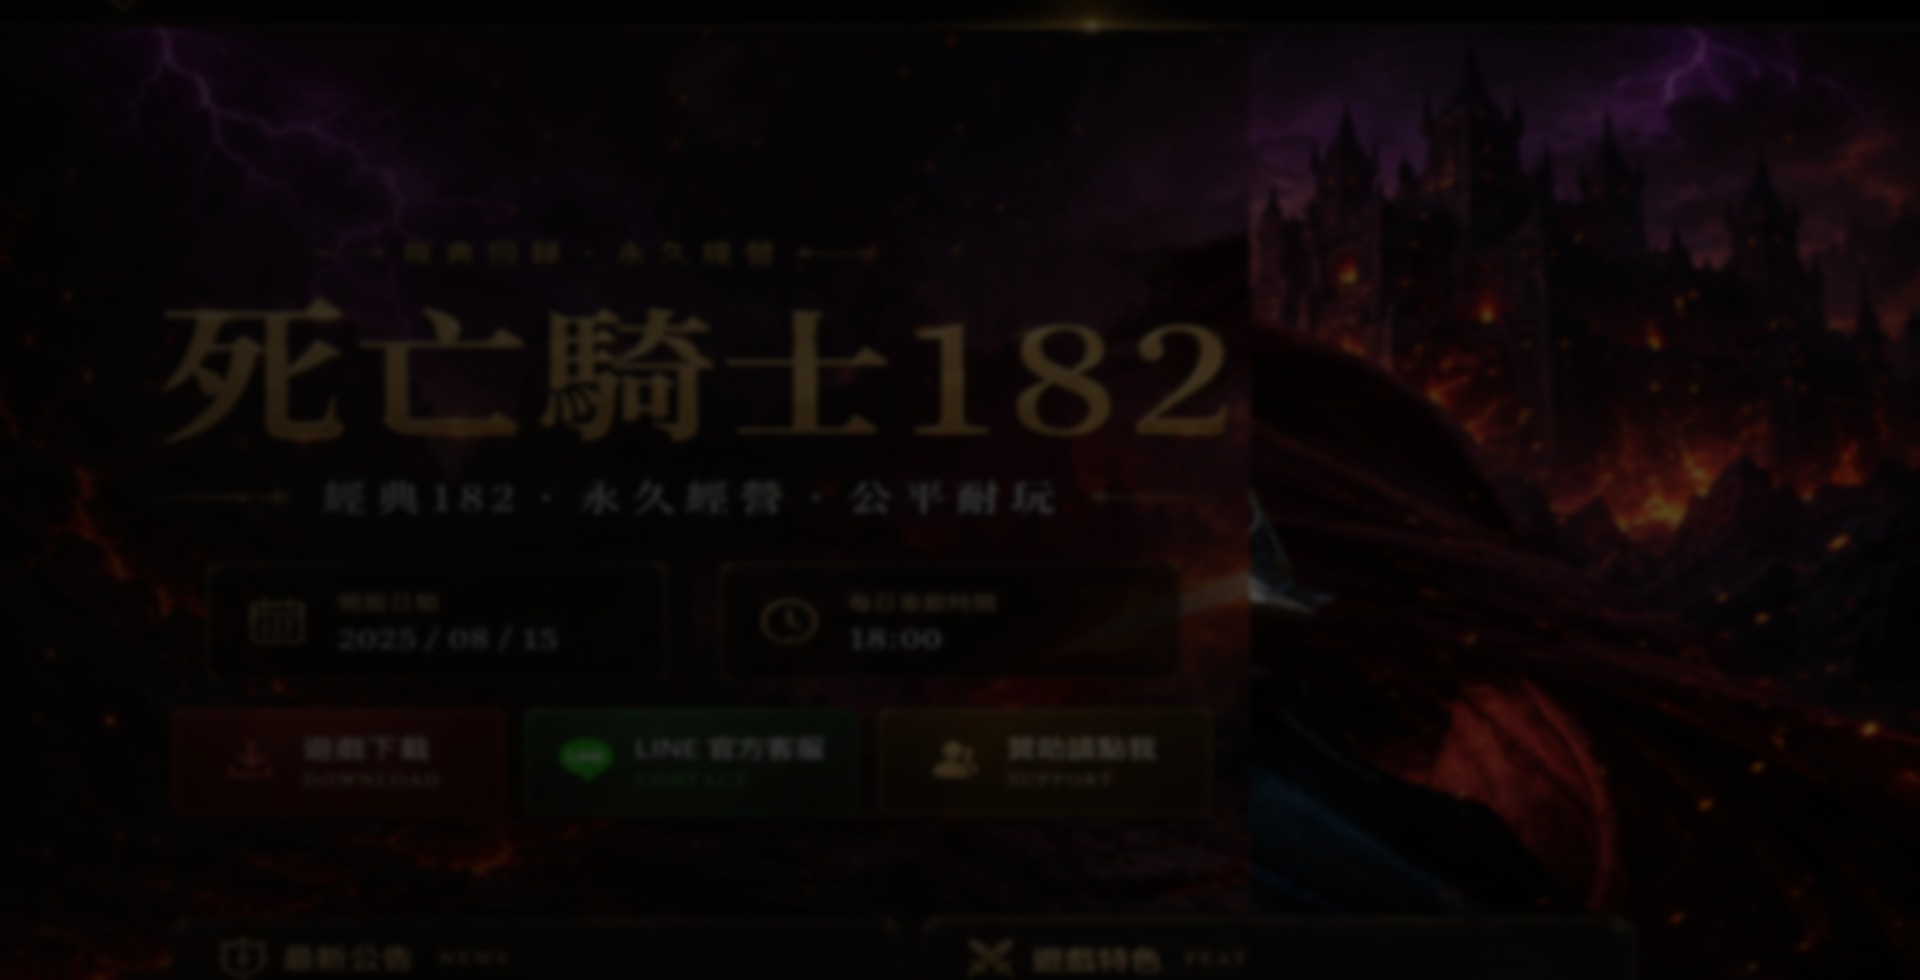
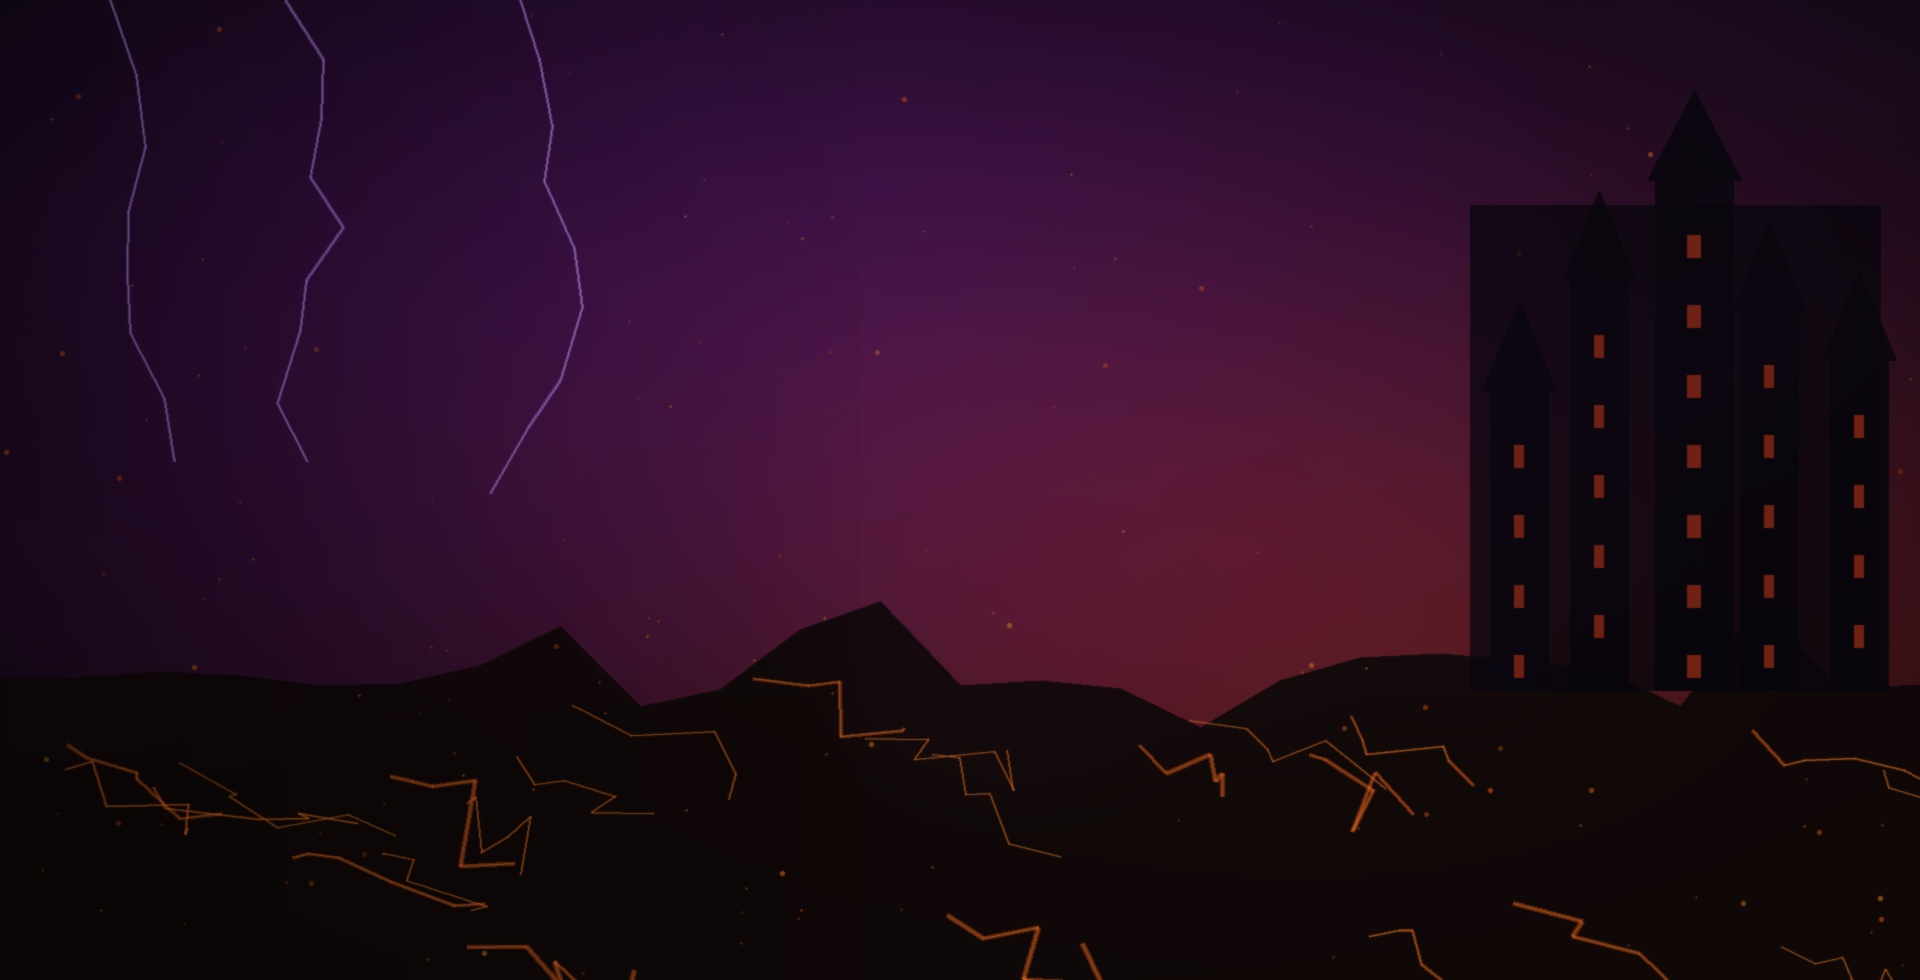
Add files via upload

diff --git a/css/style.css b/css/style.css
@@ -22,11 +22,12 @@ a{color:inherit;text-decoration:none}
 .menu-toggle span{display:block;width:25px;height:2px;background:var(--gold);margin:6px auto}
 
 .hero{min-height:760px;position:relative;overflow:hidden;display:grid;grid-template-columns:48% 52%;background:
-linear-gradient(90deg,rgba(5,4,3,.98) 0%,rgba(5,4,3,.88) 36%,rgba(5,4,3,.30) 58%,rgba(5,4,3,.15) 100%),
+linear-gradient(90deg,rgba(5,4,3,.56) 0%,rgba(5,4,3,.42) 30%,rgba(5,4,3,.16) 55%,rgba(5,4,3,.06) 100%),
 url("../images/hero-background.jpg") center/cover no-repeat;border-bottom:1px solid #543719}
 .hero:after{content:"";position:absolute;inset:0;background:
-radial-gradient(circle at 72% 44%,rgba(255,79,16,.15),transparent 28%),
-radial-gradient(circle at 62% 20%,rgba(93,38,139,.18),transparent 32%);
+radial-gradient(circle at 72% 48%,rgba(255,79,16,.22),transparent 31%),
+radial-gradient(circle at 30% 18%,rgba(116,49,170,.20),transparent 36%),
+linear-gradient(180deg,rgba(0,0,0,.03),rgba(0,0,0,.18));
 pointer-events:none}
 .hero-copy{position:relative;z-index:3;align-self:center;padding:80px 30px 80px clamp(50px,7vw,130px)}
 .eyebrow{color:#c28e3d;letter-spacing:5px;font-size:12px}
@@ -51,7 +52,7 @@ pointer-events:none}
 .wrap{width:min(1420px,92%);margin:auto}
 .info-grid{display:grid;grid-template-columns:1.15fr 1fr .85fr;gap:16px;padding:72px 0;background:transparent}
 body:before{content:"";position:fixed;inset:0;z-index:-2;background:
-linear-gradient(rgba(7,5,3,.86),rgba(7,5,3,.94)),
+linear-gradient(rgba(7,5,3,.68),rgba(7,5,3,.84)),
 url("../images/section-background.jpg") center/cover fixed}
 .panel{padding:0 24px 24px;border:1px solid #65451f;background:linear-gradient(180deg,rgba(19,13,8,.95),rgba(8,6,4,.97));box-shadow:0 18px 38px rgba(0,0,0,.32)}
 .panel-title{display:flex;align-items:center;justify-content:space-between;border-bottom:1px solid #3a2816}

diff --git a/README.md b/README.md
@@ -9,3 +9,7 @@
 
 ## 上傳方式
 解壓縮後，把資料夾內所有檔案上傳至 GitHub 儲存庫根目錄，同名檔案直接覆蓋。
+
+## V5 背景顯示修正版
+原因：上一版 CSS 在 Hero 左側套用了接近 98% 的黑色遮罩，背景雖然存在，但被遮住。
+修正：降低遮罩透明度、重新製作無文字無人物的紫色雷電／城堡／熔岩背景。
